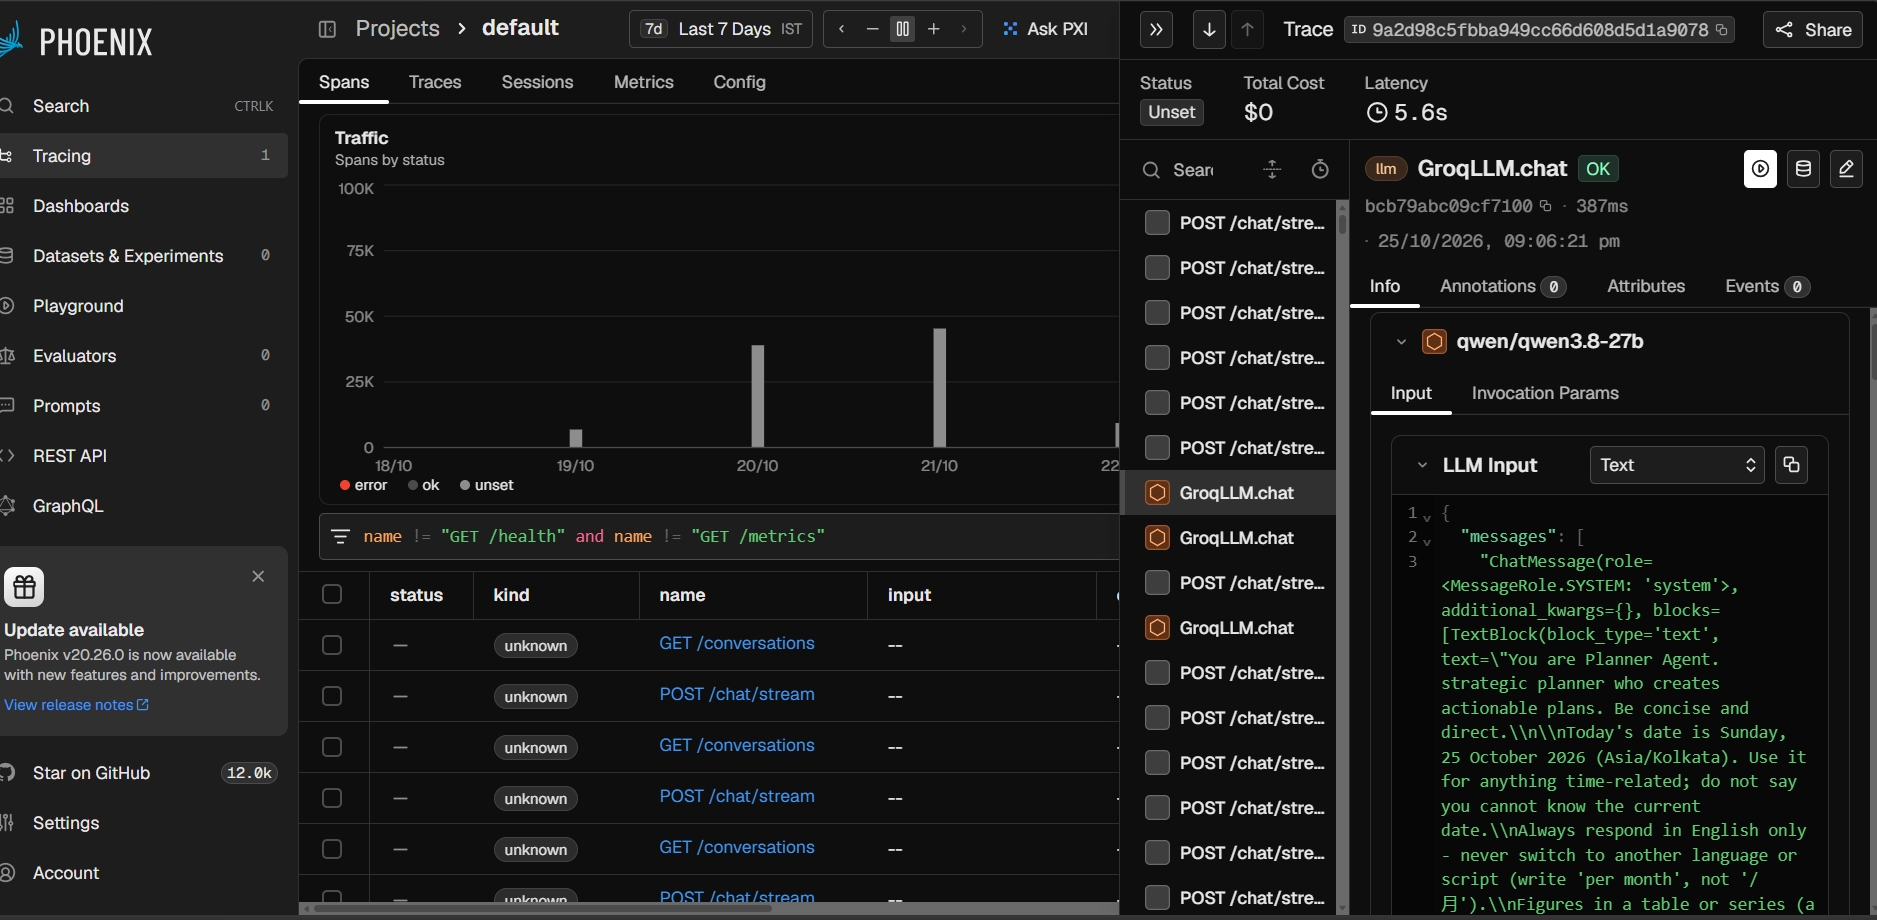
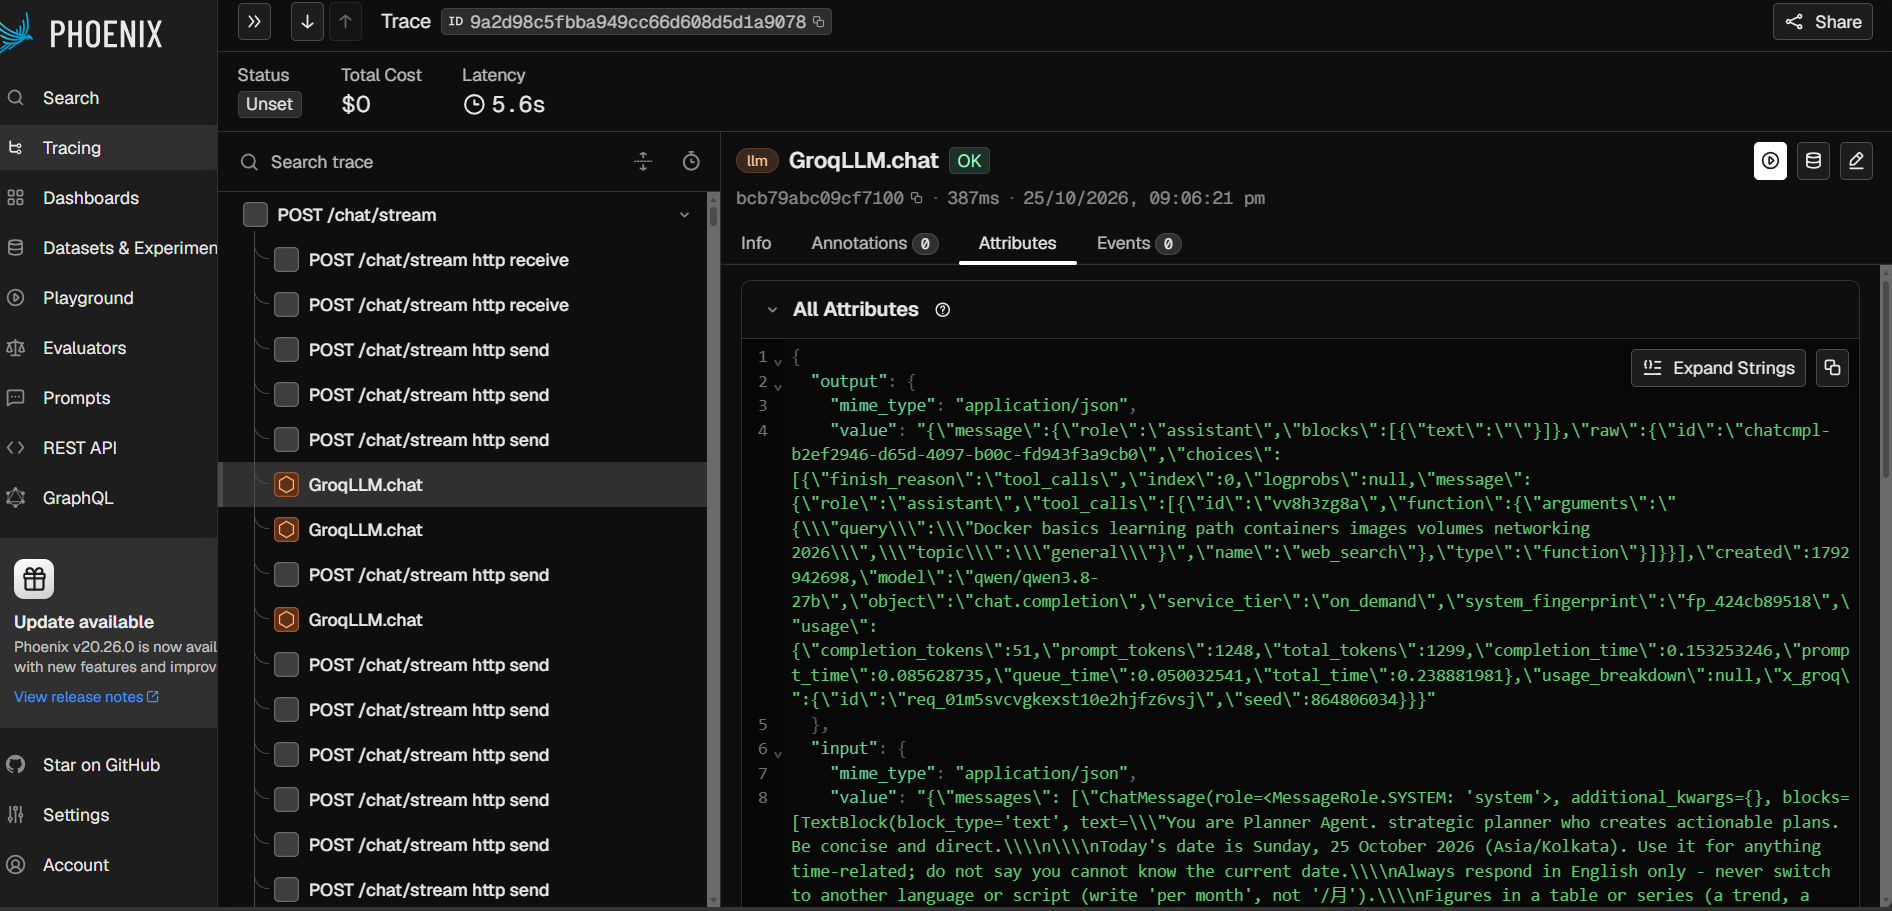
docs: full-screen Phoenix trace screenshot (span tree, tool call, token usage)

diff --git a/README.md b/README.md
@@ -85,13 +85,15 @@ agent, p50 / p95 are estimates from histogram buckets, not percentiles of many r
 
 ![Grafana per-agent panels: spend by component, run time, failure rate](docs/screenshots/grafana-agents.png)
 
-**Phoenix: one chat request traced.** The span tree (middle) holds the
-`POST /chat/stream` request and its `GroqLLM.chat` LLM calls. The selected LLM span shows
-the model (`qwen/qwen3.8-27b`), status, latency (387 ms) and the exact messages sent, here
-the Planner agent's system prompt with today's date. Phoenix shows "Total Cost $0" because
-it has no prices for these Groq models; spend is tracked in Prometheus (panels above).
+**Phoenix: one chat request traced.** Left: the span tree. The `POST /chat/stream` request
+holds its HTTP send/receive spans and the `GroqLLM.chat` LLM calls. Right: the selected LLM
+call (OK, 387 ms) from the Planner agent. Its output is a `web_search` tool call (the agent
+decided to look up a Docker learning path), Groq's usage report (1,248 prompt + 51
+completion tokens) and the model (`qwen/qwen3.8-27b`). Below that is the input: the
+Planner's system prompt with today's date. Phoenix shows "Total Cost $0" because it has no
+prices for these Groq models; spend is tracked in Prometheus (panels above).
 
-![Phoenix GroqLLM.chat span: model, latency and the prompt sent](docs/screenshots/phoenix-llm-span.png)
+![Phoenix trace: span tree and one GroqLLM.chat call with its tool call, token usage and prompt](docs/screenshots/phoenix-llm-span.png)
 
 ---
 
